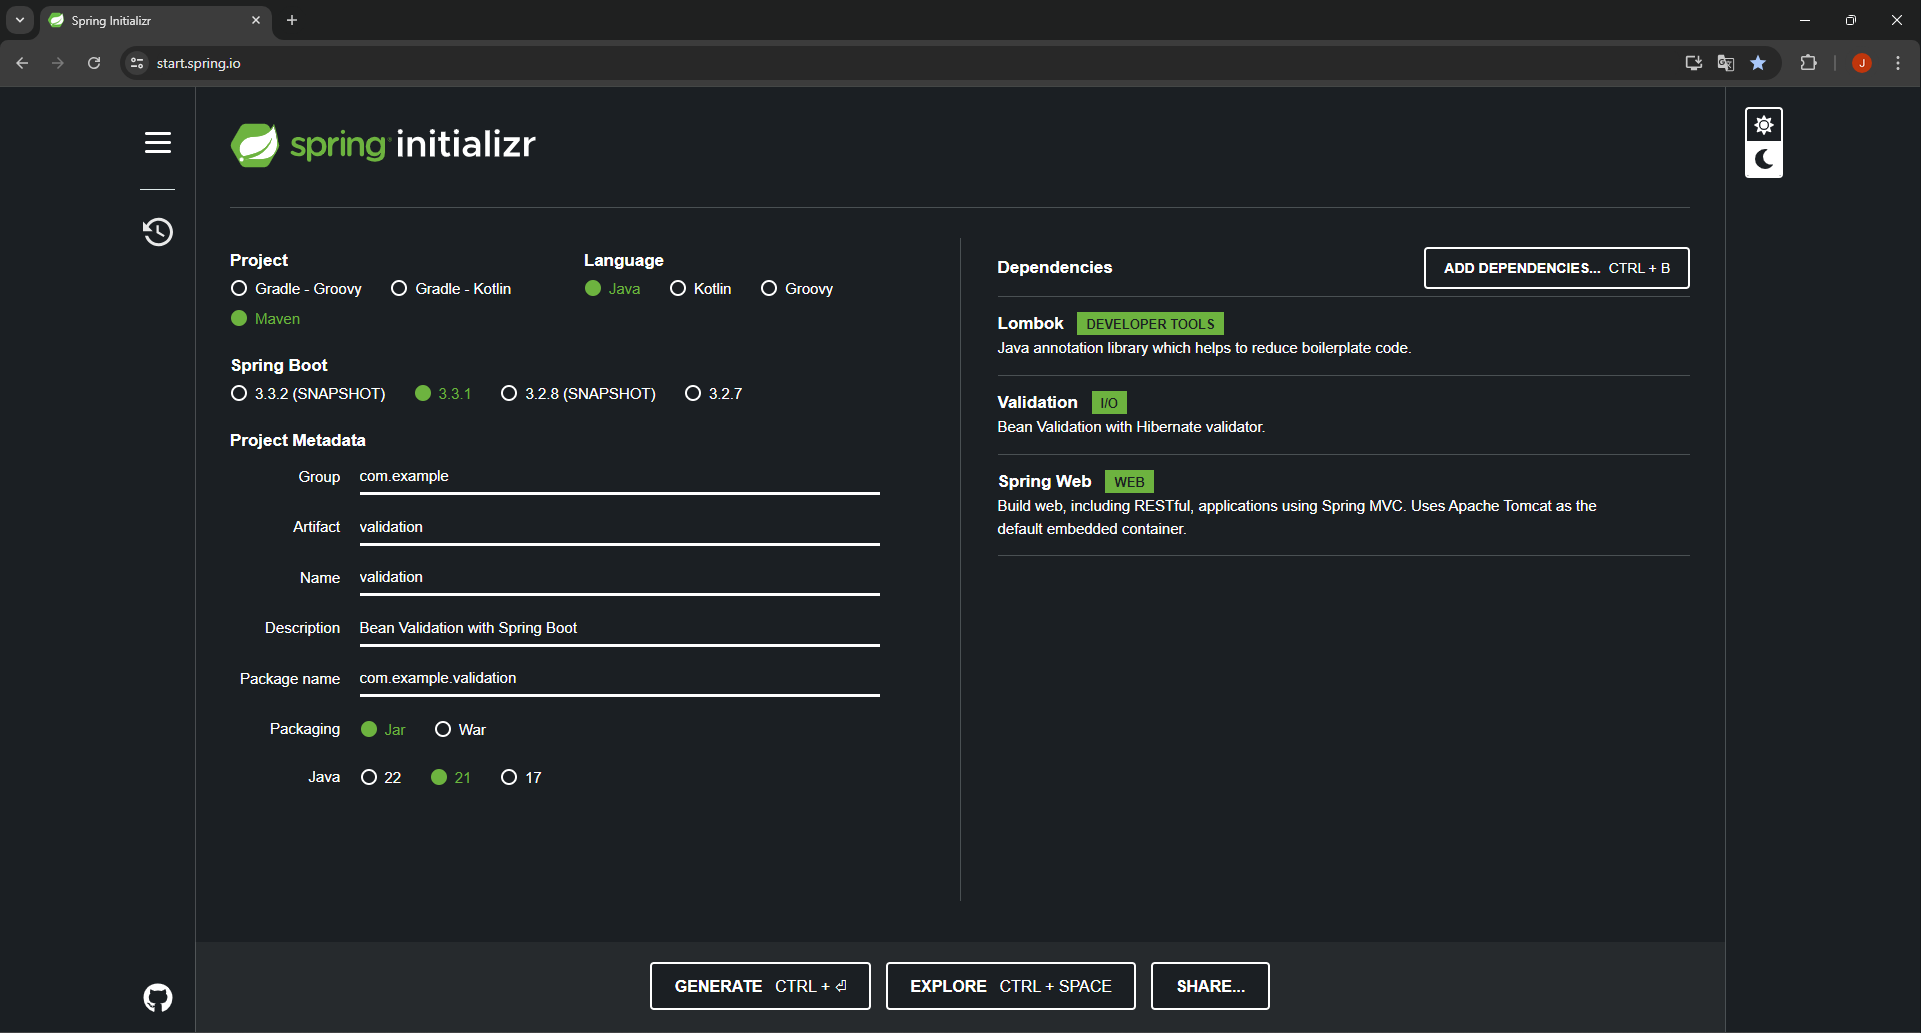
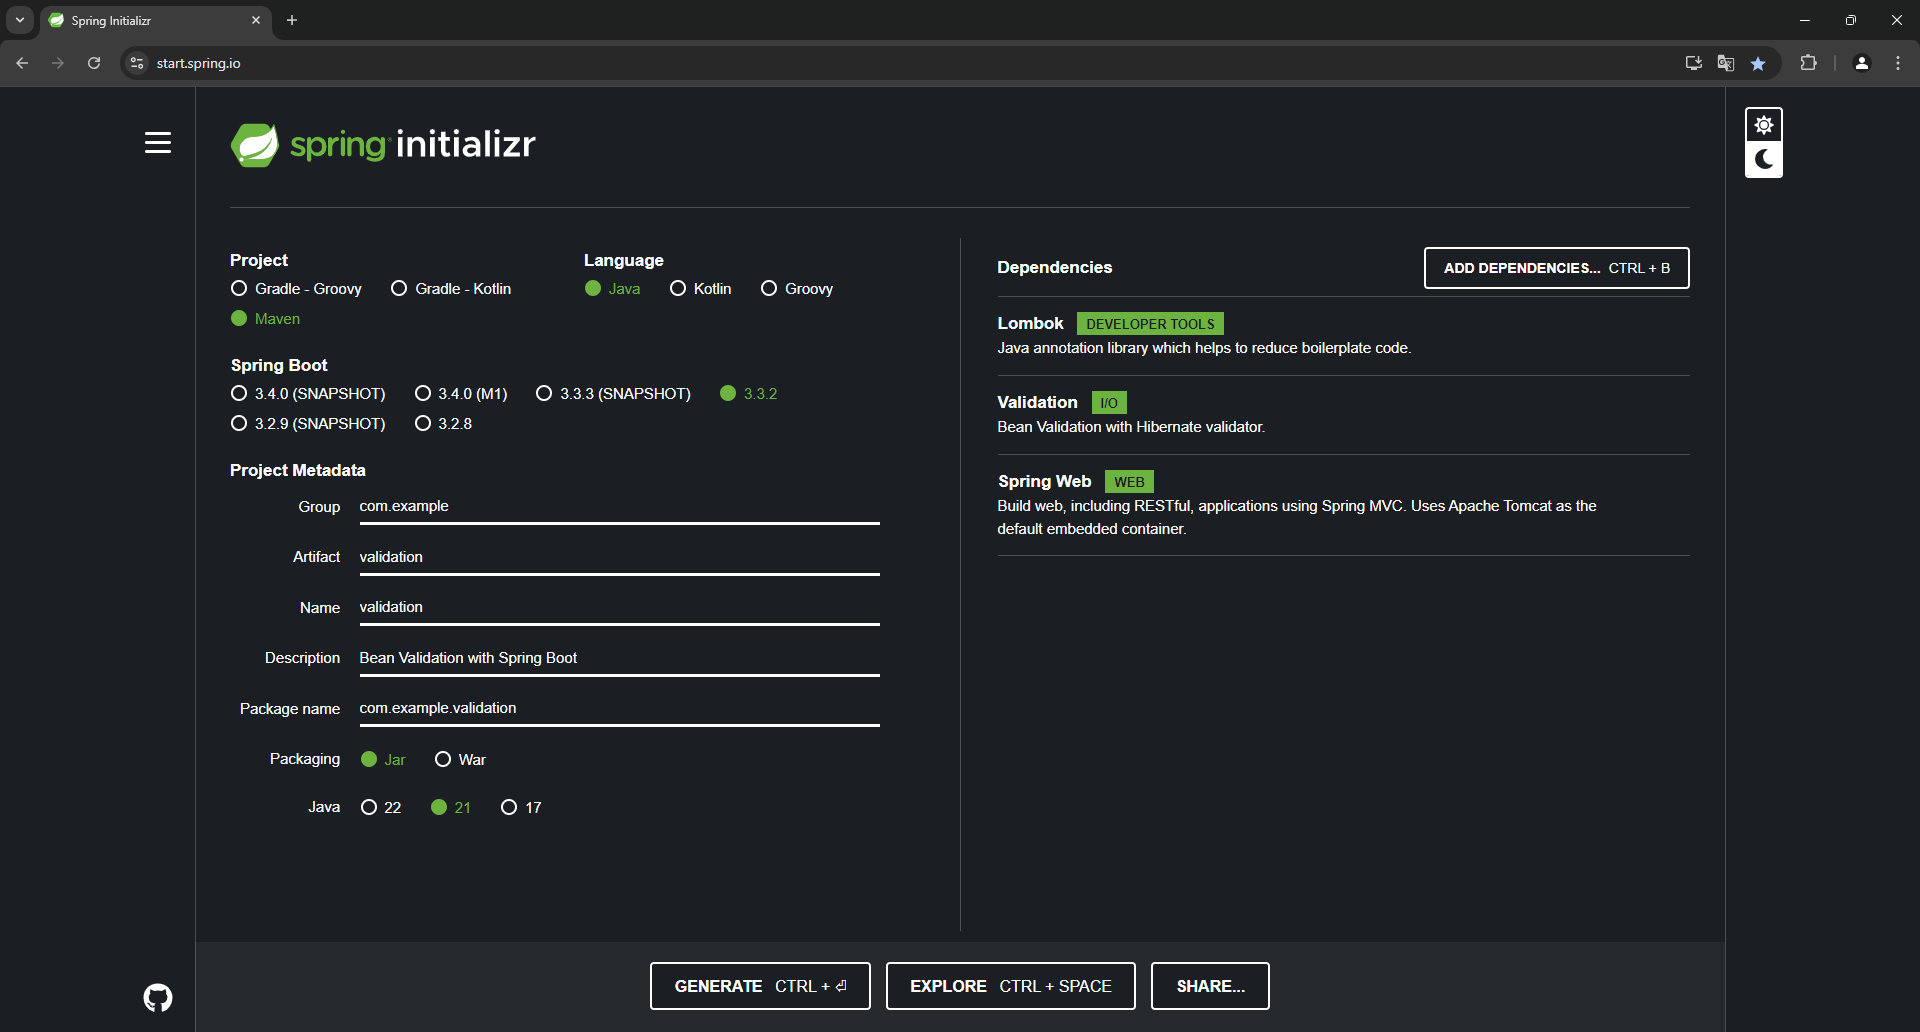
Update README.md

diff --git a/README.md b/README.md
@@ -6,9 +6,9 @@ In this article, we will delve into the significance of <strong>bean validation<
 
 <b>Author:</b> <a href="https://github.com/spring-boot-react-nextjs" target="_blank">spring-boot-react-nextjs</a><br>
 <b>Created:</b> 2024-07-05<br>
-<b>Last updated:</b> 2024-07-05
+<b>Last updated:</b> 2024-08-04
 
-[![](https://img.shields.io/badge/Spring%20Boot-8A2BE2)]() [![](https://img.shields.io/badge/release-Jun%2020,%202024-blue)]() [![](https://img.shields.io/badge/version-3.3.1-blue)]()
+[![](https://img.shields.io/badge/Spring%20Boot-8A2BE2)]() [![](https://img.shields.io/badge/release-Jul%2018,%202024-blue)]() [![](https://img.shields.io/badge/version-3.3.2-blue)]()
 
 ## 1. Why should you use Bean Validation?
 1. <b>Input Validation:</b> <strong>Bean validation</strong> provides a way to ensure that the data received from the client meets certain criteria before it is processed by the application.<br/> This can help prevent issues such as SQL injection, cross-site scripting (XSS), and other security vulnerabilities.
